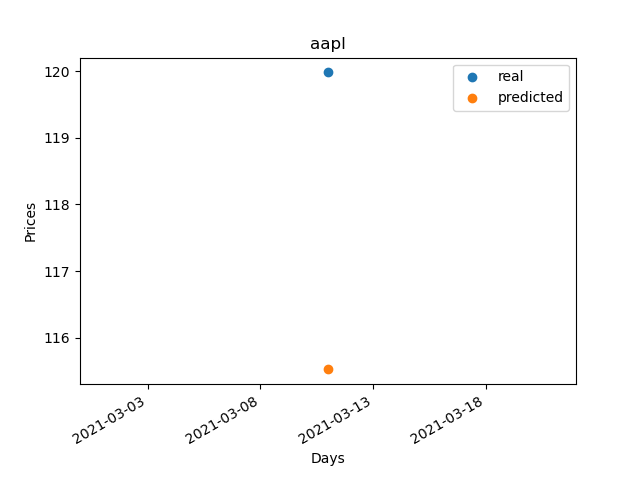
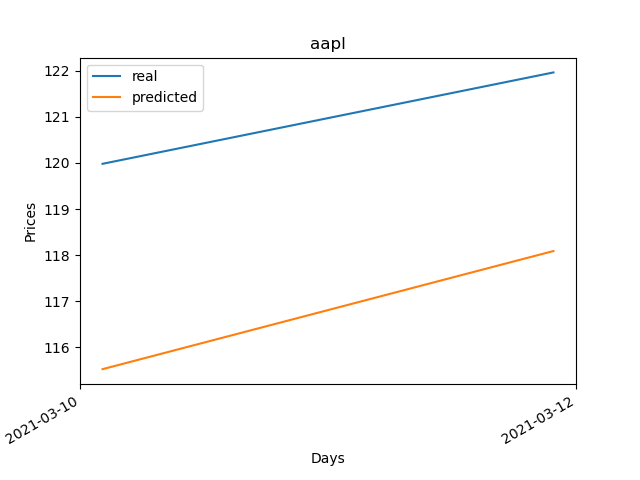
proj

diff --git a/app.py b/app.py
@@ -169,8 +169,8 @@ def graph():
 
     for ticker in list(set(stock)):
         ticker_values = stock_df[stock_df['stock_ticker'] == ticker]
-        plt.scatter(ticker_values['date'], ticker_values['real_price'], label='real')
-        plt.scatter(ticker_values['date'], ticker_values['predicted_price'], label='predicted')
+        plt.plot(ticker_values['date'], ticker_values['real_price'], label='real')
+        plt.plot(ticker_values['date'], ticker_values['predicted_price'], label='predicted')
         plt.gca().xaxis.set_major_formatter(mdates.DateFormatter('%Y-%m-%d'))
         plt.gca().xaxis.set_major_locator(mdates.DayLocator(interval=5))
         plt.gcf().autofmt_xdate()
